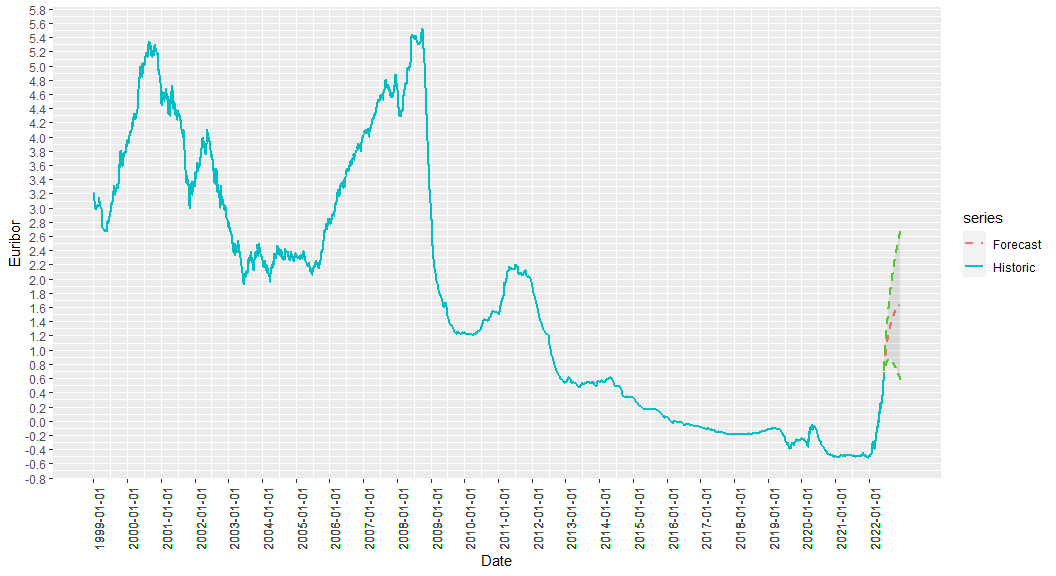
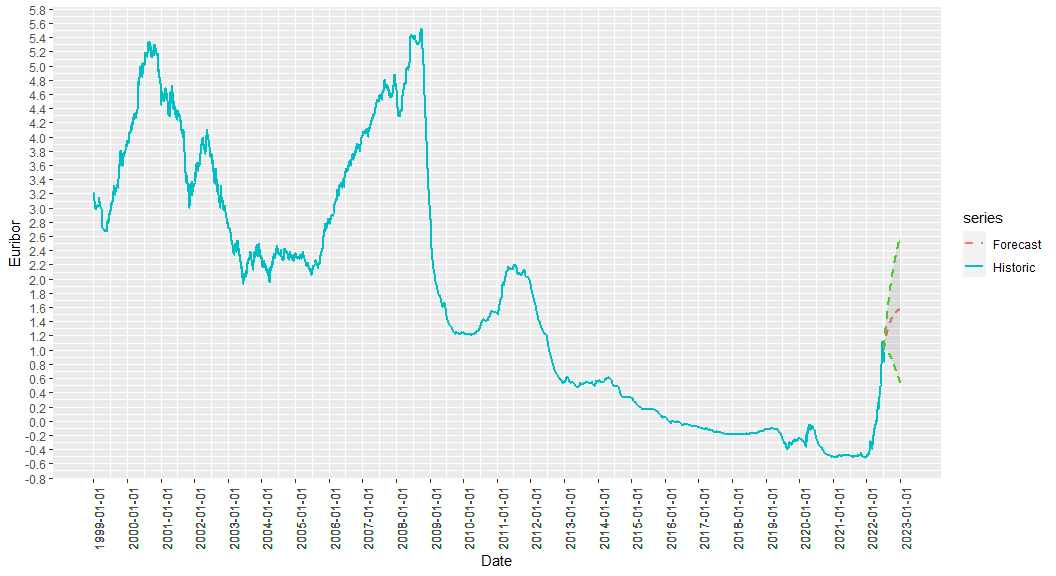
forecast update

diff --git a/Euribor_Markown.md b/Euribor_Markown.md
@@ -19,33 +19,33 @@ days.
     ## 6 1999-01-08 3.139
 
     ##            date  rate
-    ## 6015 2022-06-03 0.486
-    ## 6016 2022-06-06 0.521
-    ## 6017 2022-06-07 0.561
-    ## 6018 2022-06-08 0.569
-    ## 6019 2022-06-09 0.614
-    ## 6020 2022-06-10 0.680
+    ## 6036 2022-07-01 0.961
+    ## 6037 2022-07-04 0.897
+    ## 6038 2022-07-05 0.939
+    ## 6039 2022-07-06 0.839
+    ## 6040 2022-07-07 0.821
+    ## 6041 2022-07-08 0.972
 
 ## Preview Forecast Rates Dataset
 
-    ##         date  forecast     lo_80     hi_80     lo_95     hi_95
-    ## 1 2022-06-11 0.6999370 0.6749289 0.7249450 0.6616904 0.7381835
-    ## 2 2022-06-12 0.7161014 0.6784959 0.7537069 0.6585887 0.7736140
-    ## 3 2022-06-13 0.7306368 0.6826266 0.7786469 0.6572116 0.8040620
-    ## 4 2022-06-14 0.7449586 0.6878676 0.8020497 0.6576454 0.8322718
-    ## 5 2022-06-15 0.7590700 0.6936588 0.8244811 0.6590323 0.8591077
-    ## 6 2022-06-16 0.7729740 0.6997360 0.8462120 0.6609662 0.8849818
+    ##         date  forecast     lo_80    hi_80     lo_95    hi_95
+    ## 1 2022-07-09 0.9952586 0.9696638 1.020853 0.9561147 1.034402
+    ## 2 2022-07-10 1.0089400 0.9702217 1.047658 0.9497255 1.068155
+    ## 3 2022-07-11 1.0180273 0.9685244 1.067530 0.9423191 1.093736
+    ## 4 2022-07-12 1.0269798 0.9681027 1.085857 0.9369350 1.117025
+    ## 5 2022-07-13 1.0357995 0.9683596 1.103239 0.9326590 1.138940
+    ## 6 2022-07-14 1.0444883 0.9690134 1.119963 0.9290594 1.159917
 
-    ##           date forecast     lo_80    hi_80      lo_95    hi_95
-    ## 175 2022-12-02 1.628878 0.6099724 2.647783 0.07059639 3.187160
-    ## 176 2022-12-03 1.630000 0.6066190 2.653382 0.06487353 3.195127
-    ## 177 2022-12-04 1.631106 0.6032610 2.658952 0.05915247 3.203060
-    ## 178 2022-12-05 1.632196 0.5998987 2.664494 0.05343338 3.210959
-    ## 179 2022-12-06 1.633270 0.5965322 2.670008 0.04771642 3.218823
-    ## 180 2022-12-07 1.634328 0.5931618 2.675494 0.04200174 3.226654
+    ##           date forecast     lo_80    hi_80        lo_95    hi_95
+    ## 175 2022-12-30 1.575259 0.5581312 2.592386  0.019696540 3.130821
+    ## 176 2022-12-31 1.575943 0.5543912 2.597494  0.013614440 3.138271
+    ## 177 2023-01-01 1.576617 0.5506530 2.602581  0.007540390 3.145694
+    ## 178 2023-01-02 1.577281 0.5469166 2.607646  0.001474461 3.153088
+    ## 179 2023-01-03 1.577936 0.5431821 2.612689 -0.004583280 3.160454
+    ## 180 2023-01-04 1.578580 0.5394497 2.617711 -0.010632766 3.167793
 
-Last historic date is 2022-06-10, forecast range went from 2022-06-11 to
-2022-12-07.
+Last historic date is 2022-07-08, forecast range went from 2022-07-09 to
+2023-01-04.
 
 ## 1 Year Historical + Forecast with 80% & 95% confidence intervals
 
